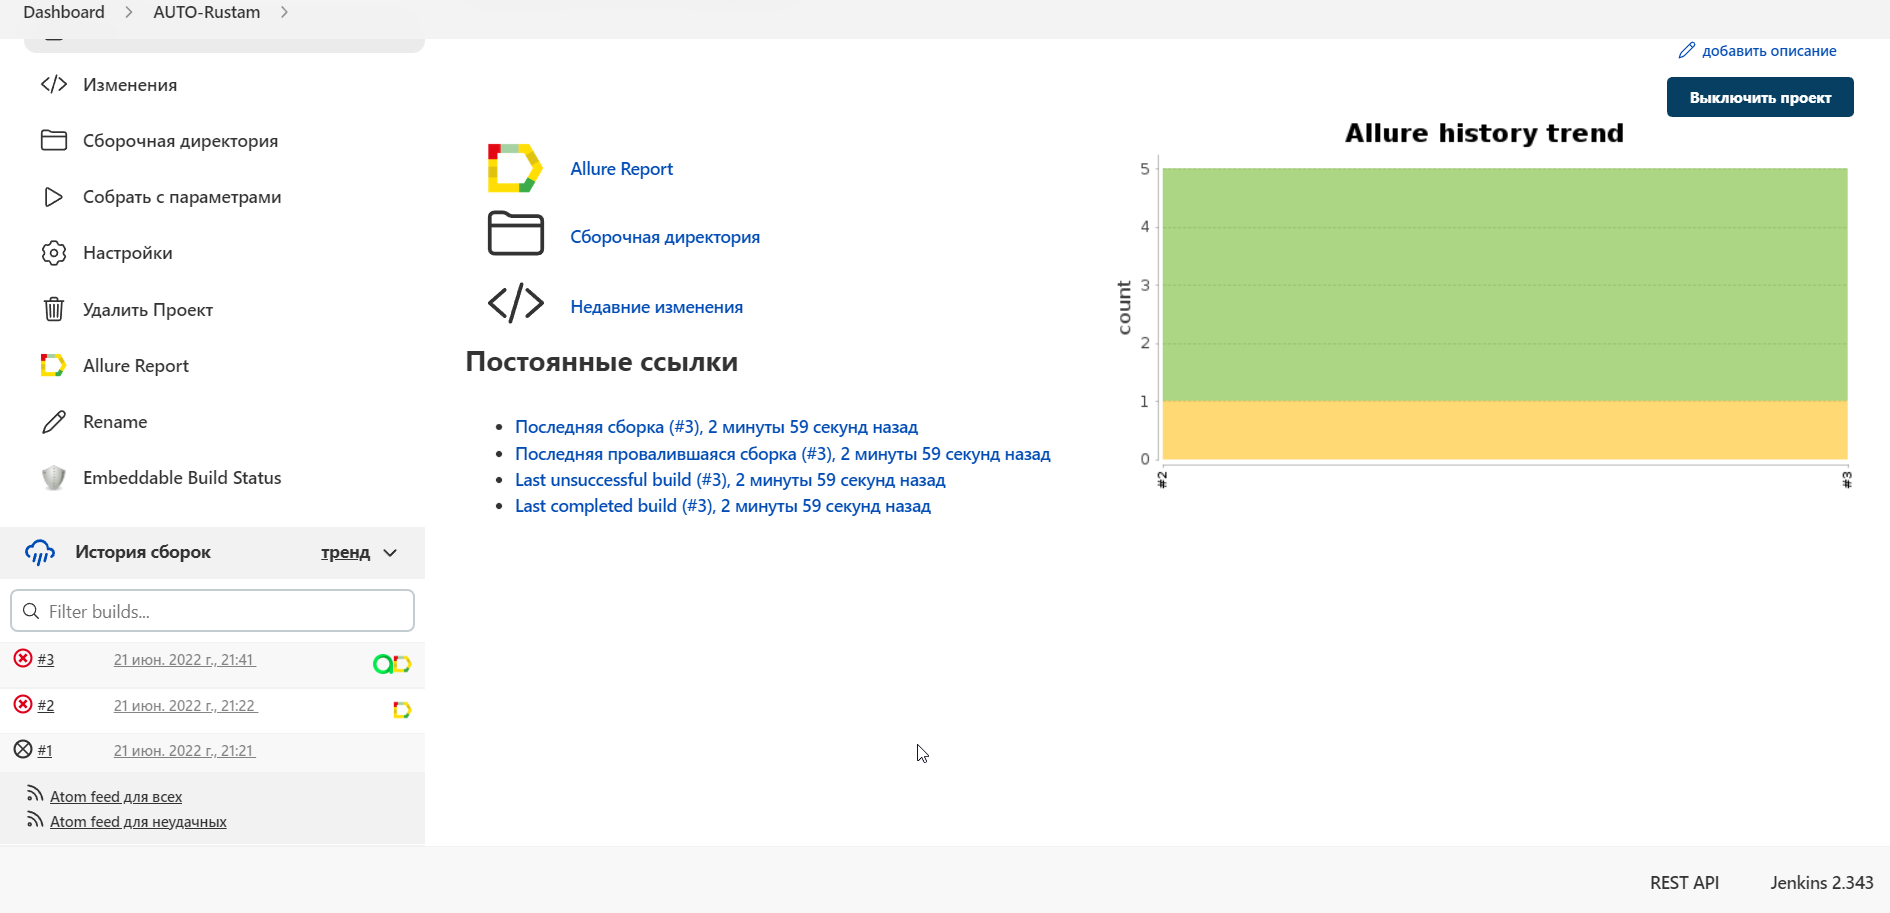
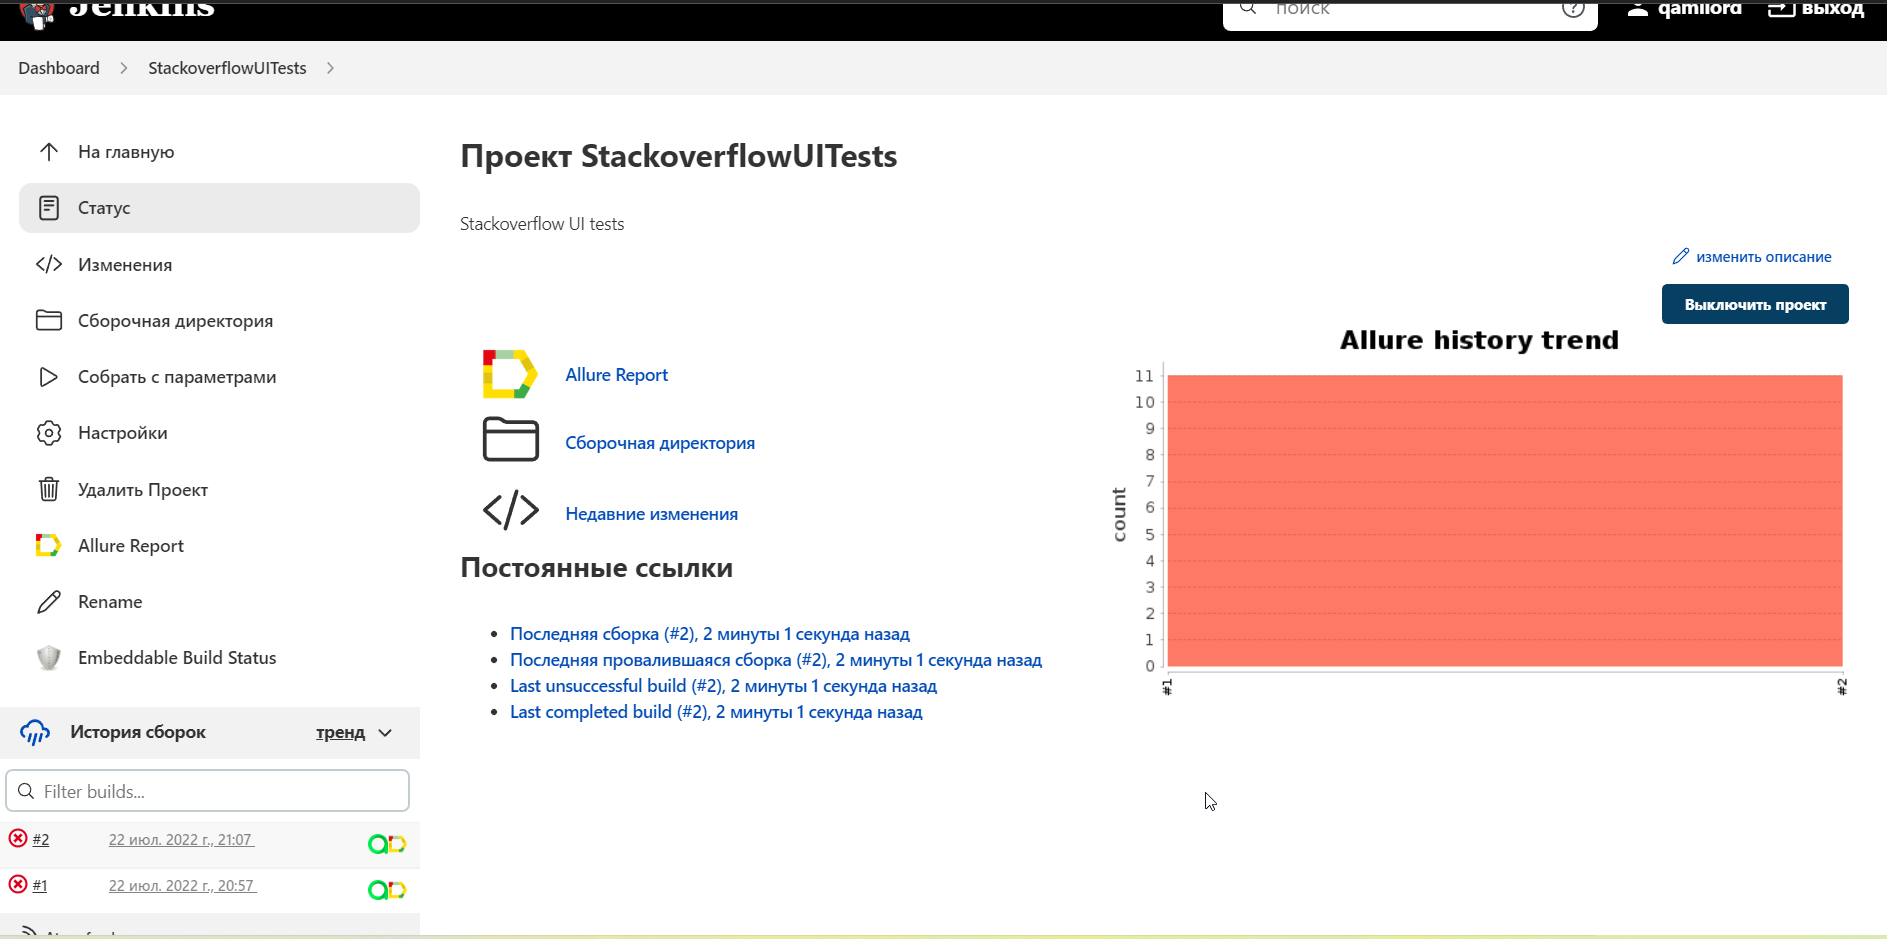
ui part done

diff --git a/src/test/java/cloud/autotests/tests/ElementsVisibleTests.java b/src/test/java/cloud/autotests/tests/ElementsVisibleTests.java
@@ -6,6 +6,7 @@ import cloud.autotests.selectors.TagsPageSelectors;
 import cloud.autotests.selectors.QuestionsPageSelectors;
 import cloud.autotests.selectors.UnansweredPageSelectors;
 import cloud.autotests.selectors.UsersPageSelectors;
+import io.qameta.allure.AllureId;
 import org.junit.jupiter.api.DisplayName;
 import org.junit.jupiter.api.Test;
 
@@ -21,6 +22,7 @@ public class ElementsVisibleTests extends TestBase implements
         MainPageSelectors, QuestionsPageSelectors, TagsPageSelectors, UsersPageSelectors, UnansweredPageSelectors {
 
     @Test
+    @AllureId("11528")
     @DisplayName("Check the presence of the main elements on the home page")
     void mainPageTest() {
         step("main page open", () -> {
@@ -55,6 +57,7 @@ public class ElementsVisibleTests extends TestBase implements
     }
 
     @Test
+    @AllureId("11533")
     @DisplayName("Check the presence of the main elements on the questions page")
     void questionsPageTest() {
         step("questions page open", () -> {
@@ -72,6 +75,7 @@ public class ElementsVisibleTests extends TestBase implements
     }
 
     @Test
+    @AllureId("11529")
     @DisplayName("Check the presence of the main elements on the tags page")
     void tagsPageTest() {
         step("tags page open", () -> {
@@ -89,6 +93,7 @@ public class ElementsVisibleTests extends TestBase implements
     }
 
     @Test
+    @AllureId("11534")
     @DisplayName("Check the presence of the main elements on the users page")
     void usersPageTest() {
         step("users page open", () -> {
@@ -107,6 +112,7 @@ public class ElementsVisibleTests extends TestBase implements
     }
 
     @Test
+    @AllureId("11532")
     @DisplayName("Check the presence of the main elements on the unanswered page")
     void unansweredPageTest() {
         step("users page open", () -> {
@@ -124,6 +130,7 @@ public class ElementsVisibleTests extends TestBase implements
     }
 
     @Test
+    @AllureId("11530")
     @DisplayName("Page title should have header text")
     void titleTest() {
         step("main page open", () -> {
@@ -139,6 +146,7 @@ public class ElementsVisibleTests extends TestBase implements
     }
 
     @Test
+    @AllureId("11527")
     @DisplayName("Page console log should not have errors")
     void consoleShouldNotHaveErrorsTest() {
         step("main page open", () -> {

diff --git a/src/test/java/cloud/autotests/tests/SearchTests.java b/src/test/java/cloud/autotests/tests/SearchTests.java
@@ -4,6 +4,7 @@ import cloud.autotests.selectors.MainPageSelectors;
 import com.codeborne.selenide.ElementsCollection;
 import com.codeborne.selenide.SelenideElement;
 import com.github.javafaker.Faker;
+import io.qameta.allure.AllureId;
 import org.junit.jupiter.api.DisplayName;
 import org.junit.jupiter.api.Test;
 import org.junit.jupiter.params.ParameterizedTest;
@@ -29,6 +30,7 @@ public class SearchTests extends TestBase implements
     })
     @DisplayName("Search with valid value")
     @ParameterizedTest(name = "find all elements containing the query phrase: {0}")
+    @AllureId("11531")
     void positiveTest1(String valueName) {
         step("Search request sending", () -> {
             open("");
@@ -41,6 +43,7 @@ public class SearchTests extends TestBase implements
     }
 
     @Test
+    @AllureId("11535")
     @DisplayName("Search with invalid value")
     void noResultsTest() {
         Faker faker = new Faker();

diff --git a/README.md b/README.md
@@ -35,15 +35,16 @@
 
 ## :rocket: Реализованные проверки это UI тесты
 ![This is an image](https://i.imgur.com/Dd62Cq5.png)
-- Наличие основных элементов раздела
-- Наличие основных элементов раздела "Card tab testing"
-- Наличие основных элементов раздела "Deposits tab testing"
-- Наличие основных элементов раздела "Investments tab testing"
-- Наличие текста главной страницы "Main page headers checking"
-- Отсутствие ошибок в консоли "Clear console log"
+- Наличие основных элементов главной страницы
+- Наличие основных элементов страницы вопросов
+- Наличие основных элементов страницы меток
+- Наличие основных элементов страницы участников
+- Наличие основных элементов страницы неотвеченные
+- Результаты работы поиска с валидными данными
+- Результаты работы поиска с невалидными данными
 
 ## :rocket: Сборка в Jenkins
-### <a target="_blank" href="https://jenkins.autotests.cloud/job/AUTO-Rustam/">Сборка в Jenkins</a>
+### <a target="_blank" href="https://jenkins.autotests.cloud/job/StackoverflowUITests/">Сборка в Jenkins</a>
 <p align="center">
 <img title="Jenkins Dashboard" src="images/screenshots/jenkins_dashboard.png">
 </p>
@@ -59,13 +60,13 @@
 ## :rocket: Запуск из терминала
 Локальный запуск:
 ```
-gradle clean sof
+gradle clean test
 ```
 
 Удаленный запуск:
 ```
 clean
-sof
+test
 -Dbrowser=${BROWSER}
 -DbrowserVersion=${BROWSER_VERSION}
 -DbrowserSize=${BROWSER_SIZE}
@@ -81,30 +82,46 @@ sof
 <img title="Allure Overview Dashboard" src="images/screenshots/report_main_page.png">
 </p>
 
-- ### Страница с проведенными тестами
+- ### Страница с проведенными тестами (suites)
 <p align="center">
-<img title="Allure Test Page" src="images/screenshots/report_tests_page.png">
+<img title="Allure Test Page" src="images/screenshots/allure_suites_1.png">
+<img title="Allure Test Page" src="images/screenshots/allure_suites_2.png">
+</p>
+
+- ### Страница с пакетами тестов
+<p align="center">
+<img title="Allure Overview Dashboard" src="images/screenshots/allure_packages.png">
+</p>
+
+- ### Страница с графиком прохождения тестов
+<p align="center">
+<img title="Allure Overview Dashboard" src="images/screenshots/allure_schedule.png">
 </p>
 
 ## :rocket: Интеграция с Allure TestOps
 - ### Экран с результатами запуска тестов
 <p align="center">
-<img title="TestOps Launch Page" src="images/screenshots/test_ops_launch_page.png">
+<img title="TestOps Launch Page" src="images/screenshots/test_results_ATO.png">
 </p>
 
-- ### Страница с тестами в TestOps
+- ### Экран с launches после интеграции с IDE + график
 <p align="center">
-<img title="TestOps tests page" src="images/screenshots/test_ops_tests_page.png">
+<img title="TestOps Launch Page" src="images/screenshots/launches_ATO.png">
 </p>
 
-- ### Страница с тестами в TestOps auto + manual
+- ### Экран с дашбордами и тестами в TestOps auto + manual
 <p align="center">
-<img title="TestOps tests page" src="images/screenshots/test_ops_manual.png">
+<img title="TestOps Launch Page" src="images/screenshots/dashboards_ATO.png">
 </p>
 
-- ### Экран с результатами запуска тестов auto + manual
+- ### Страница с тест кейсами в TestOps
 <p align="center">
-<img title="TestOps Launch Page" src="images/screenshots/allure_manual_results.png">
+<img title="TestOps tests page" src="images/screenshots/test_cases_ATO.png">
+</p>
+
+- ### Страница с тест ранами в TestOps auto + manual
+<p align="center">
+<img title="TestOps tests page" src="images/screenshots/test_runs_ATO.png">
 </p>
 
 ## :rocket: Интеграция с Jira
@@ -120,6 +137,7 @@ sof
 
 ## :rocket: Видео примеры прохождения тестов
 > К каждому тесту в отчете прилагается видео. Одно из таких видео представлено ниже.
+> На данный момент школьный ресурс оптимизируется, я предоставил результаты своей работы невзирая на преграды.
 <p align="center">
   <img title="Selenoid Video" src="images/gif/test_result.gif">
 </p>
